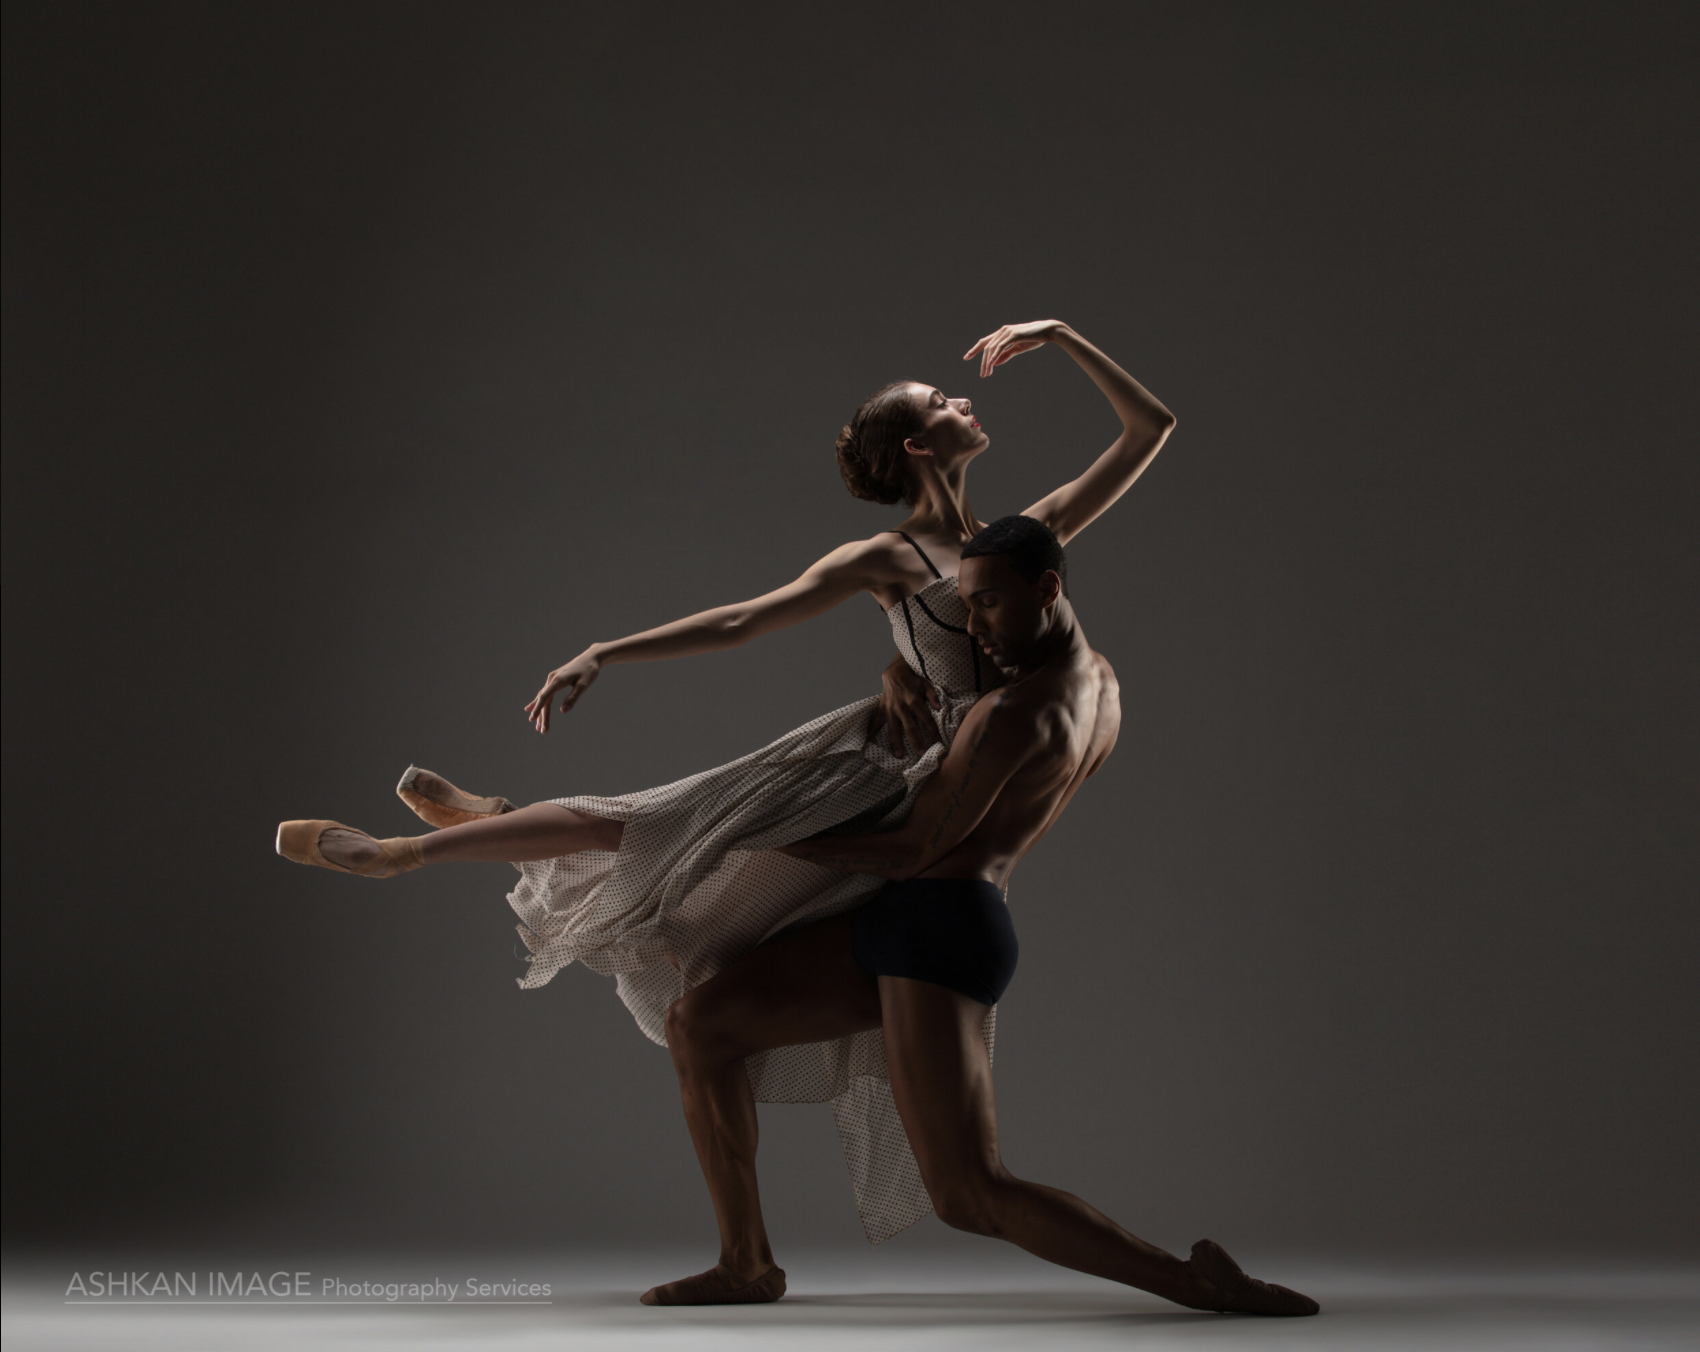
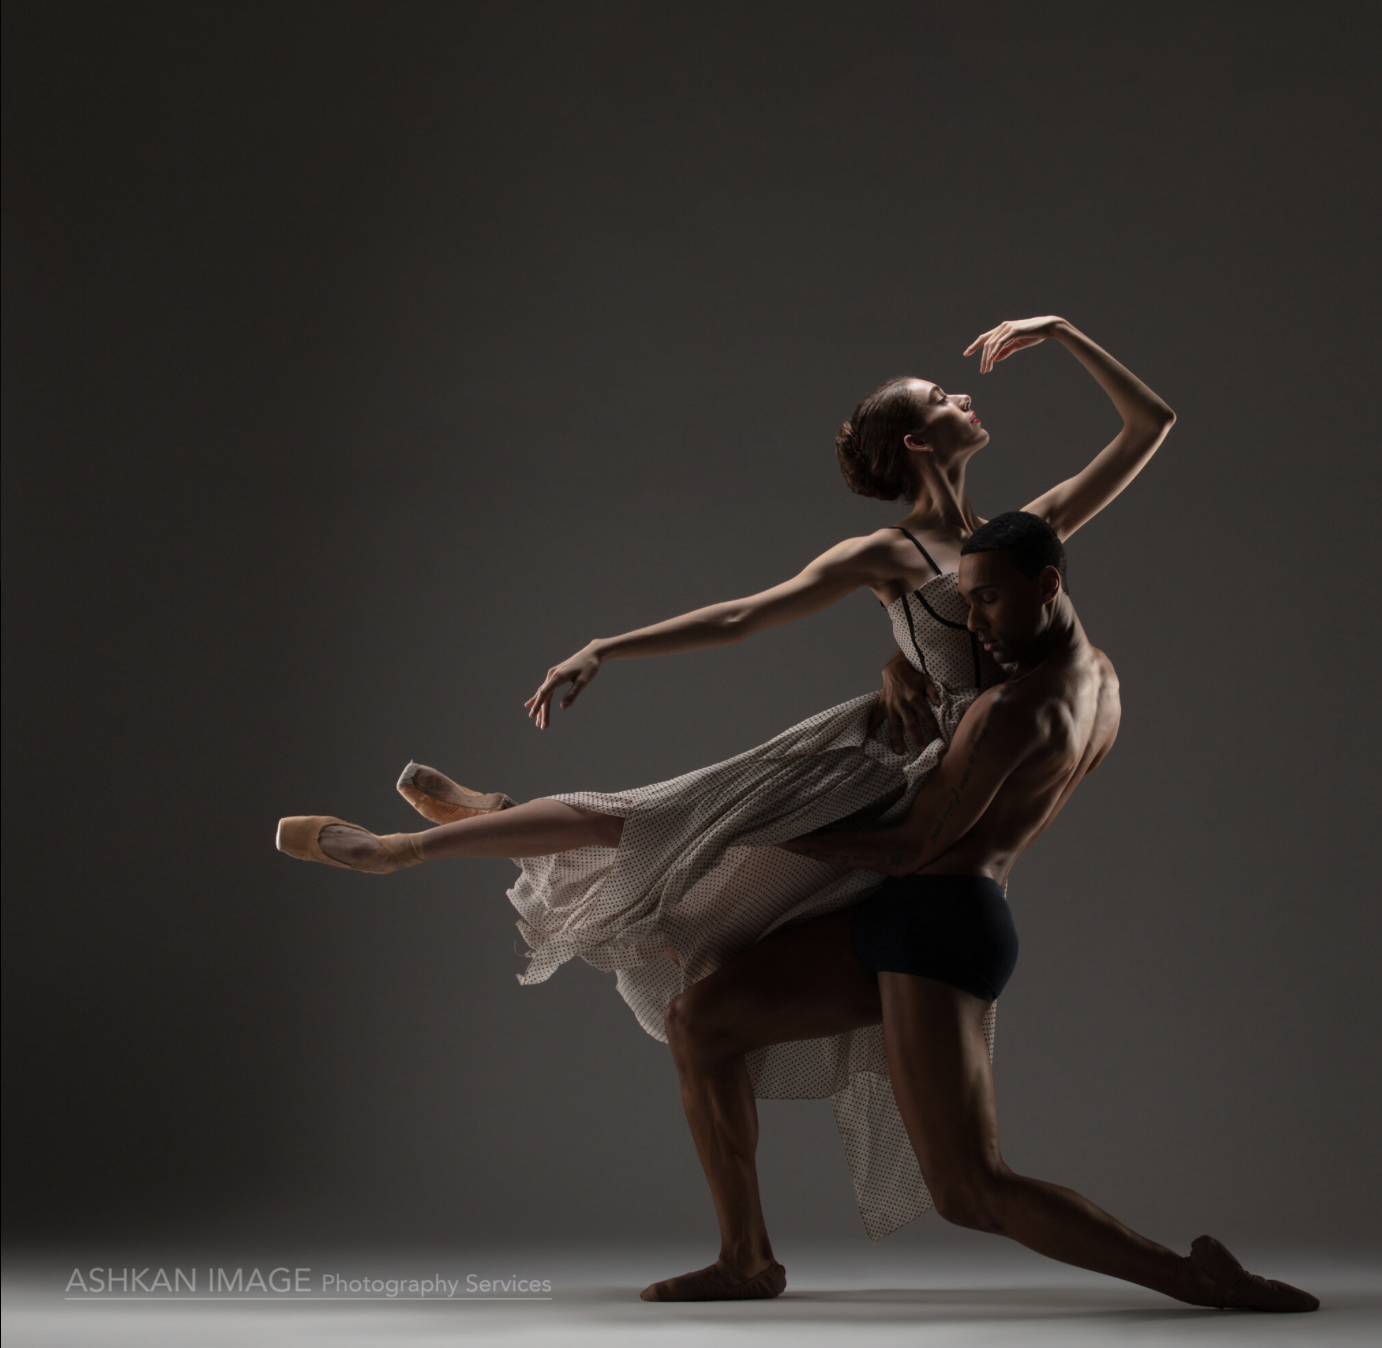
Updates 12/07

Changed region(s): [[0.1556, 0.2181, 0.9645, 1.0], [0.0311, 0.9347, 0.28, 0.9659]]

diff --git a/About.html b/About.html
@@ -5,10 +5,15 @@
     <link href="About.css" type="text/css" rel="stylesheet">
 </head>
 <body>
-    <div id="hero-image">
+    
         <header>
-            <h1><b>About</b></h1>
+            <h1><a class="one" href="index.html"><b>About</b></a></h1>
         </header>
+        <div class="navbar">
+            <a class="two" href="Hobbies.html">Hobbies</a>
+            <a class="two" href="index.html">Home</a>
+        </div>  
+    <div id="hero-image">
         <div class="bio">
             <p class="bio-text">	
             Sean Carmon started dancing when he was 12 years old and has not stopped since. Starting in Beaumont, Texas, Sean has worked tirelessly
@@ -17,25 +22,20 @@
             the first time and he know he had to be a part of that historic company. He immediately switched college, and opted to attend the  
             training program at Ailey
             at Fordham University. There he trained with some of the greatest in the world, and proved to himself and his classmates that he was not
-            just the best dancer in a small town, he was a world class dancer, period. <br />
-            While in his final year at Fordham, Sean received a phone call 
-            from a casting director looking for an emergency replacement for one of the dancers in the Broadway revival of Les Cage Aux Folles. 
-            Sean rushed down to the audition and danced his heart out, booking him the job. He performed for the entire run of that show, while 
-            finishing school. When Les Cage closed he auditioned and was cast in The Phantom of the Opera. He only worked a month though, before 
-            The Ailey Company hired him as one of their company dancers. He danced with Ailey for seven years, touring the world. He then heard the 
-            siren call of Broadway once more and got booked for The Lion King. He has worked and worked and worked. His career is enviable to 
-            almost anyone in the arts. 
+            just the best dancer in a small town, he was a world class dancer, period. <br /> </p> 
+        </div>
+        <div class="bio-2">
+            <p class="bio-text">
+                While in his final year at Fordham, Sean received a phone call 
+                from a casting director looking for an emergency replacement for one of the dancers in the Broadway revival of Les Cage Aux Folles. 
+                Sean rushed down to the audition and danced his heart out, booking him the job. He performed for the entire run of that show, while 
+                finishing school. <br /> When Les Cage closed he auditioned and was cast in The Phantom of the Opera. He only worked a month though, before 
+                The Ailey Company hired him as one of their company dancers. He danced with Ailey for seven years, touring the world. He then heard the 
+                siren call of Broadway once more and got booked for The Lion King. He has worked and worked and worked. His career is enviable to 
+                almost anyone in the arts. 
             </p>
         </div>
+            
     </div>
-    <div class="picture">
-        <img src="Images/Sean_Dancing_with_Vitacca.jpeg" alt="Sean Dancing with Vitacca" width="645" height="520">
-    </div>
-    <footer>
-        <p class="footer-text">
-        Designed by William John Austin
-            <a class="two" href="index.html">Back</a>
-        </p>   
-    </footer>
-
 </body>
+</html>

diff --git a/About.css b/About.css
@@ -1,52 +1,63 @@
 
 body {background-color:#393532;
     margin: 0;
+    background-image: url("Images/Sean_Dancing_with_Vitacca.jpeg");
+    background-size: 100%;
+    background-repeat: no-repeat;
+    background-position: 70% 45%
 }
 h1 {
     font-family: 'Cinzel', 'Old Standard TT', 'Georgia', serif; font-size: 36pt; 
-    font-weight: bold; text-align: center; color:#ebc3b6; 
+    font-weight: bold; text-align: center;
+    color:#ebc3b6; 
     text-transform:uppercase;
     letter-spacing: .5em;
+    opacity: 100%;
 }
+a.one{
+    color:#ebc3b6;
+    text-decoration: none;
+}
+
 header {
     background-color: #282424;
     width: 100%;
     overflow: hidden;
+    opacity: 85%;
     border-bottom: #63605e 3px solid;
 }
 p.bio-text {
     font-family: 'times new roman', 'Verdana', sans-serif; 
     font-size: 12pt; 
     text-align: left; 
-    color: #ebc3b6; 
-    margin-left: 15px; margin-top: 20px; margin-right: 15px;
-    word-spacing: .20em;
-    letter-spacing: .125em;
+    color: #eacdc3; 
+    margin-left: 15px; margin-top: 10px; margin-right: 15px;
+    word-spacing: .2em;
+    letter-spacing: .15em;
     line-height: 1.25em;
 }
 p.bio-text:first-letter {
     font-size: 200%;
 }
-div.bio { 
-    width: 46%;
-    float: left;
-    margin-left: 2.5%;
-    margin-top: 1.5%;
-    border: white solid 1px;
+#hero-image {
+    float:left;
 }
-div.picture{
-    float:right;
-    margin-right: 2.5%;
-    margin-top: 1.5%;
+div.bio { 
     width: 45%;
-    border: white solid 1px;
+    margin-left: 2%;
+    margin-top: 1%;  
+}
+div.bio-2 {
+    width: 25%;
+    margin-left: 2%;
+    margin-top: 1%;
 }
 a.two
 {
     color:#ada39e; 
-    font-weight: lighter;
-    font-family: 'Michroma', 'Verdana', sans-serif;
-    font-size: 80%;
+    font-family: 'Cinzel', 'Old Standard TT', 'Georgia', serif;
+    letter-spacing: .25em;
+    font-size: 12pt;
     text-decoration: none;
     float: right;
     margin-right: 2%;
@@ -55,18 +66,4 @@ a.two
 a.two:hover {
     color: #ebc3b6;
     text-decoration: underline;
-}
-footer{
-    background-color: #2f2c2c;
-    position: absolute;
-    width: 100%;
-    bottom: 0;
-    
-}
-p.footer-text{
-    font-weight: lighter;
-    font-size: 80%;
-    margin-left: 2%;
-    color: #ada39e;
-    bottom: 0;
 }

diff --git a/Hobbies.css b/Hobbies.css
@@ -1,6 +1,7 @@
 
 body {background-color:#393532;
-        margin: 0;}
+        margin: 0;
+    }
 
 header {
     background-color: #282424;
